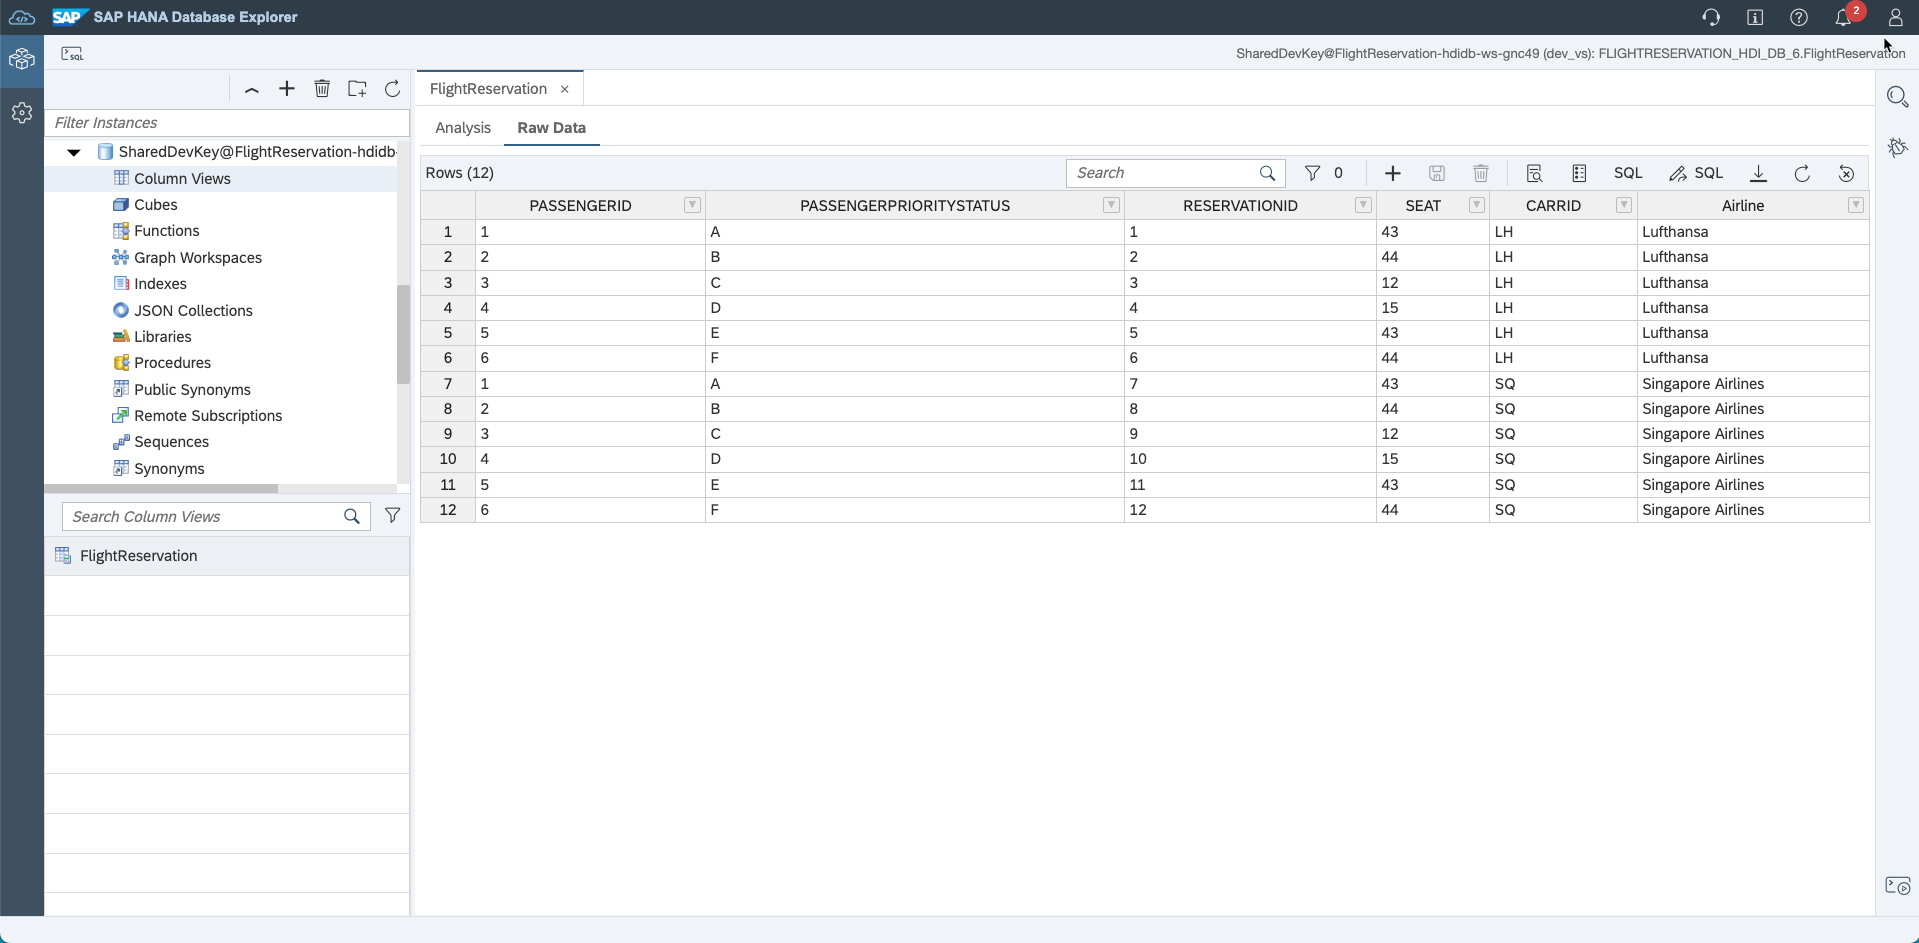
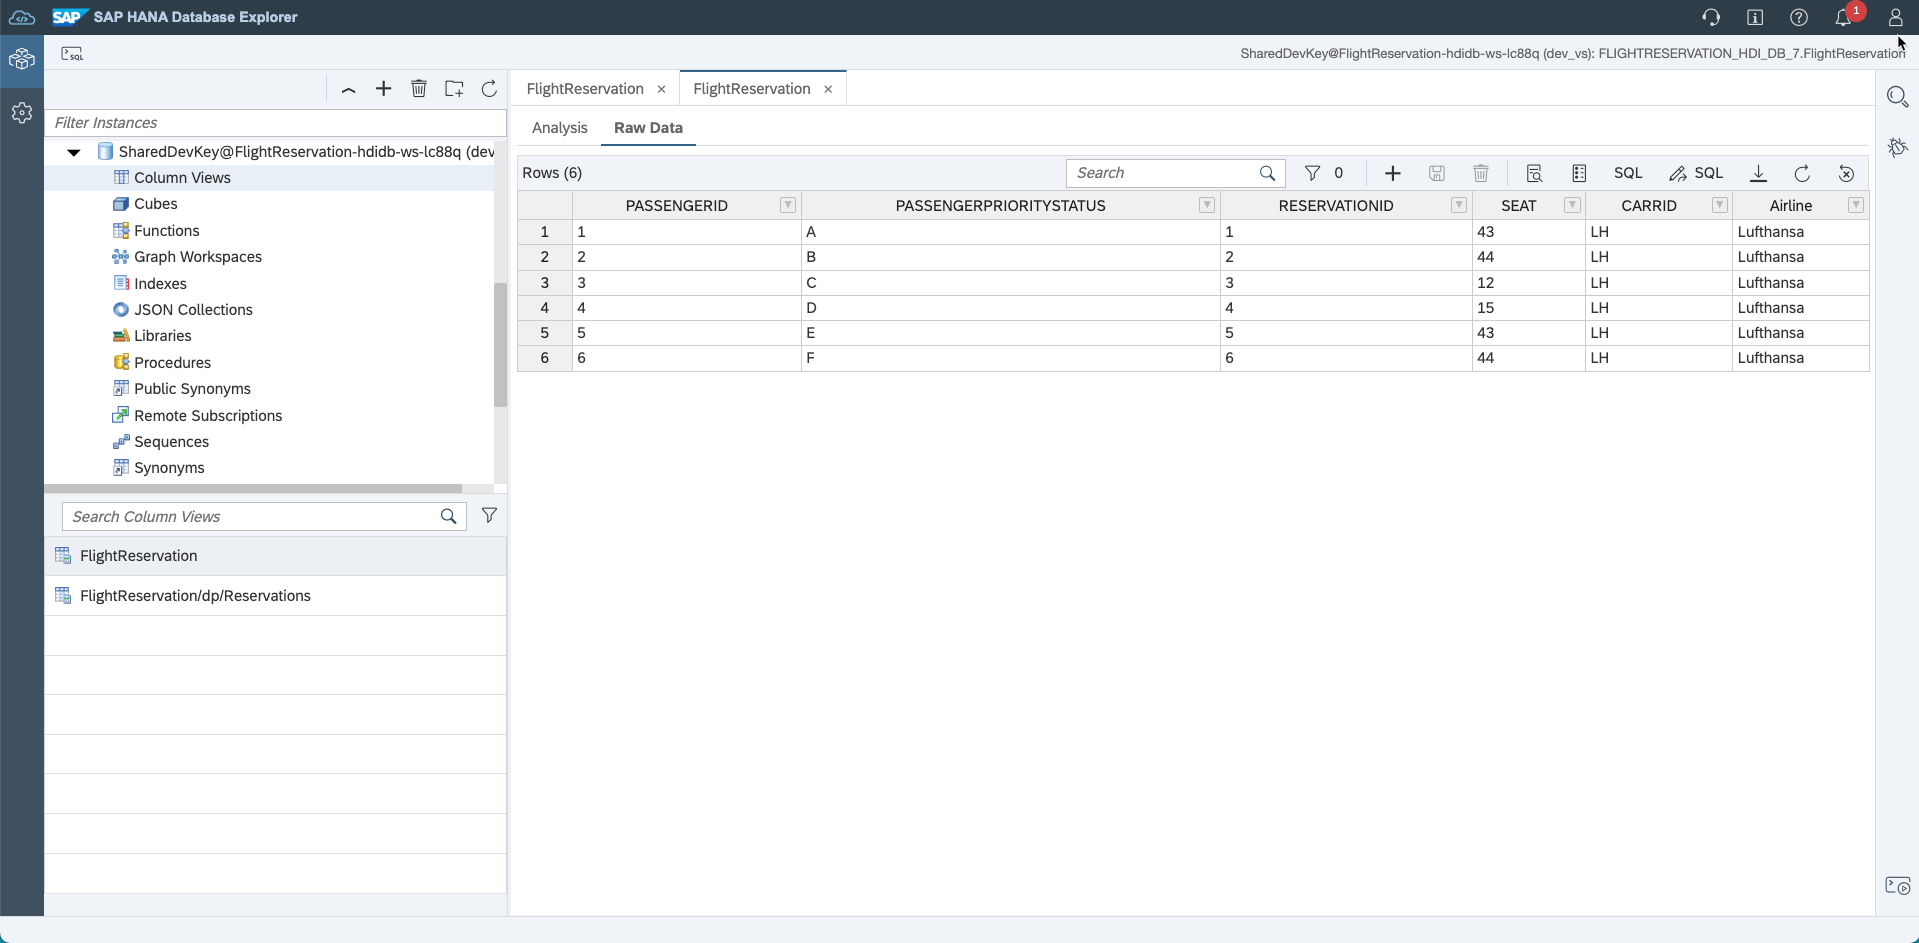
Access Rights

diff --git a/exercises/business_app_studio/ex2/README.md b/exercises/business_app_studio/ex2/README.md
@@ -167,21 +167,24 @@ Calculation views allow the developers to express their intent instead of defini
         with this result:
         ![Calculation Data Preview](images/cv_dataPreview_Result.png)
 
-     -  Using the catalog browser in the SAP HANA database explorer
-
-         ![](images/calc-view.png)
-
-         with the same result
-
-        ![Calculation Data Preview in DBX](images/cv_dataPreview_Result.png)
-
+     -  Using the catalog browser in the SAP HANA database explorer as following
 
 ## Exercise 2.6 Create Analytic Privileges for your Calculation View
 
-1. In the Getting Started wizard, select Create Analytic Privileges for your Calculation View and complete the steps.
+ - 1. In the Getting Started wizard, select Create Analytic Privileges for your Calculation View and complete the steps.
+ Deploy
 
-2. TODO Volker, why does it suggest opening dbx here?  Unless I am mistaken, nothing can be seen in DBX related to the privileges and the calculation view can not yet preview the data.
-You should see only the LH flights but there seems to be an error in the generator. I have different and errorrous results in EU10/EU20 ???
+
+         ![](images/calc-view.png)
+         
+         with a filtered result. 
+
+
+         ![AX privileg](images/ax_rights.png)
+        If you now change the rule tp "SQ", deploy and review the calculation view:
+
+        ![Calculation Data Preview "SQ" in DBX](images/cv_dataPreview_Result_dbx.png)
+
 
 ## Exercise 2.7 Create a Database Role for the Analytic Privilege
 
